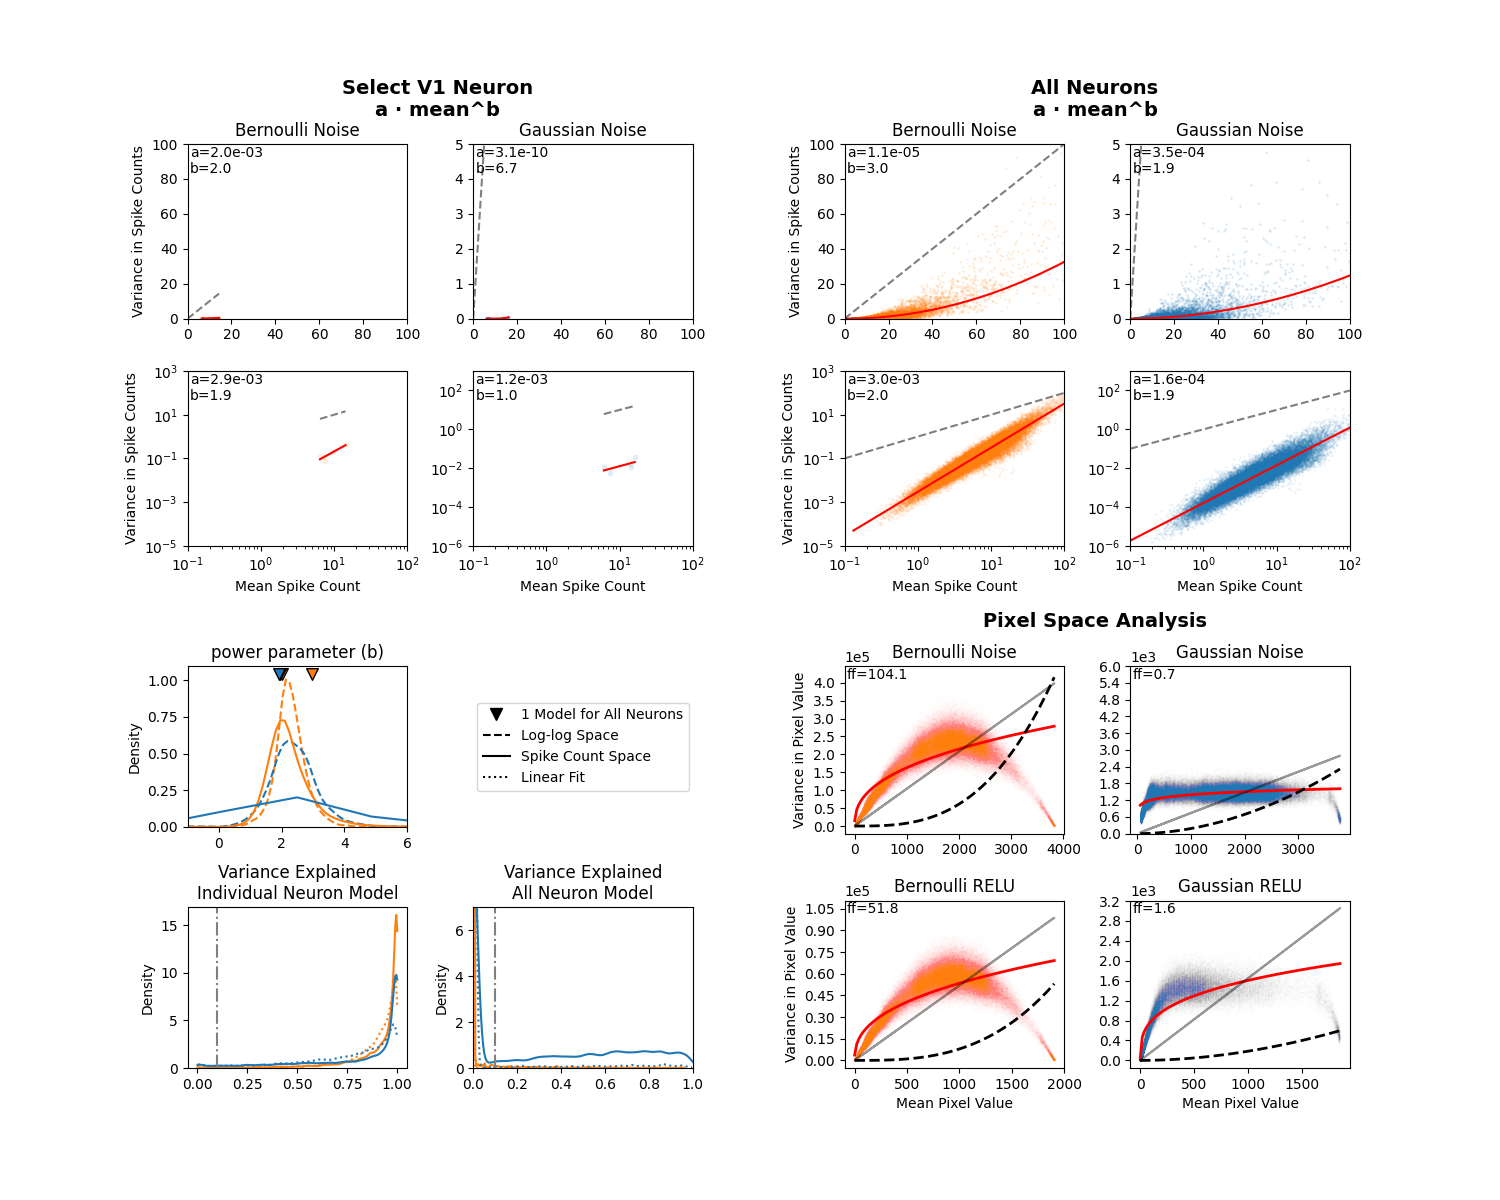
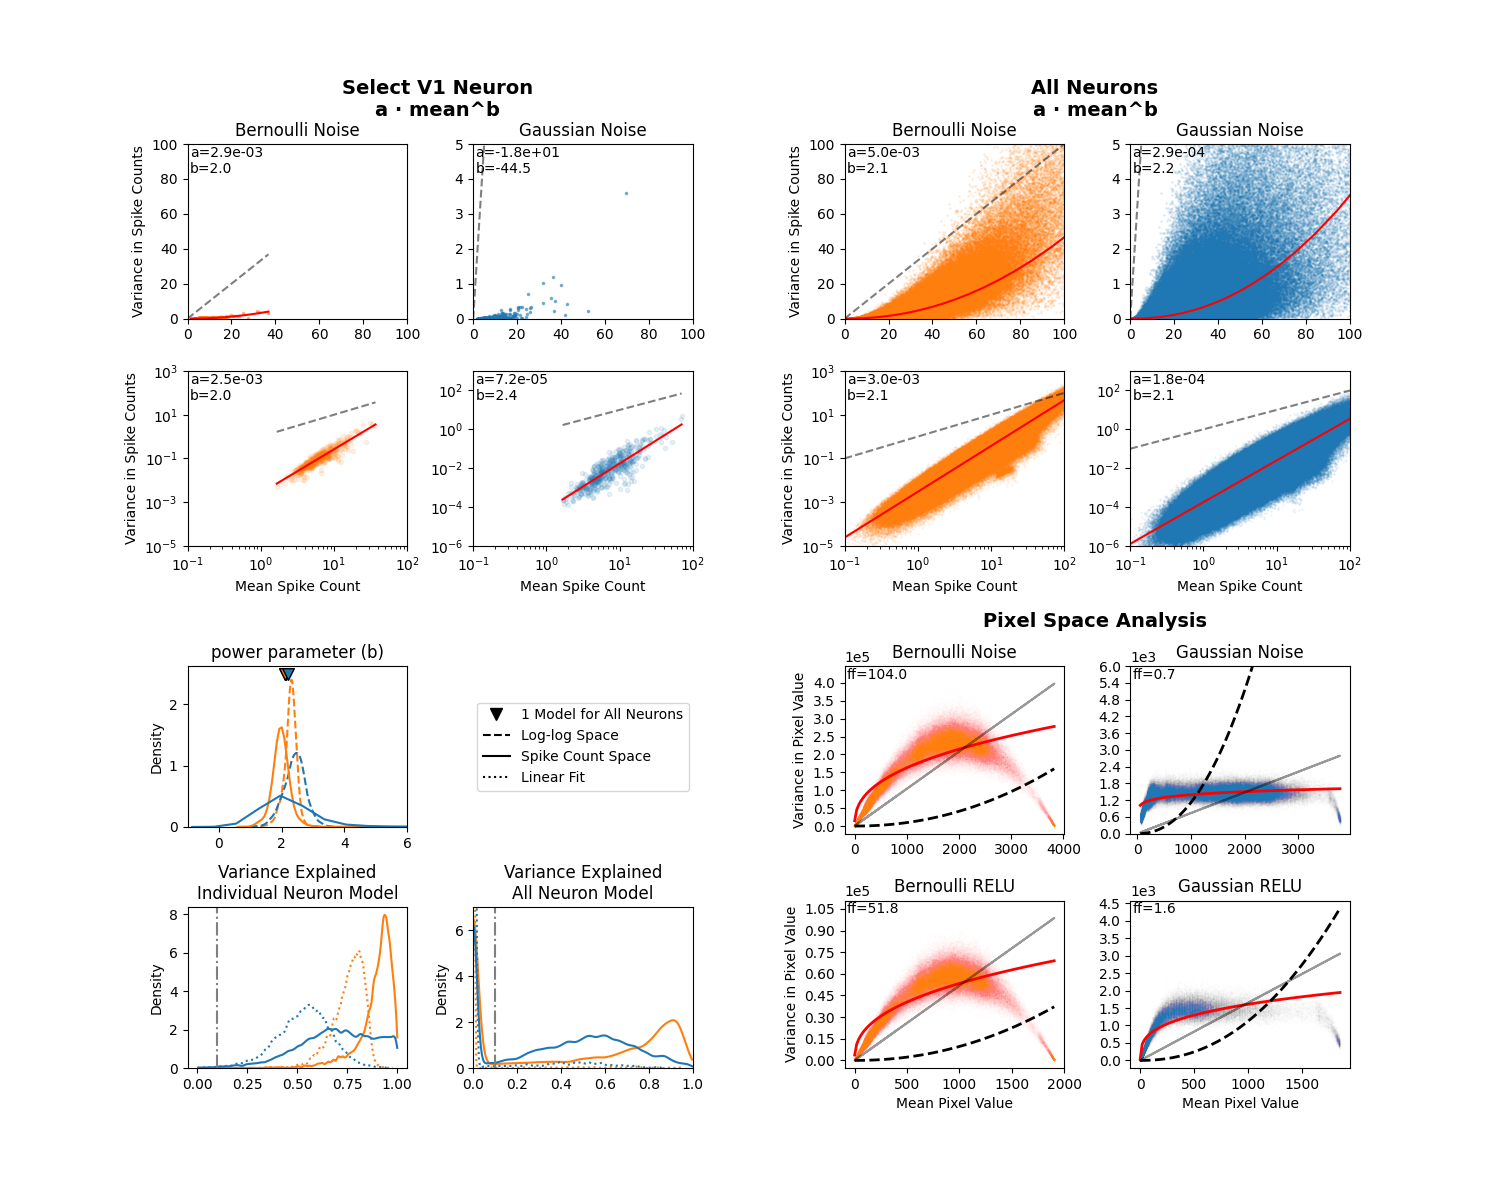
filtering region done

diff --git a/plot_figure1.py b/plot_figure1.py
@@ -12,6 +12,7 @@ Usage:
 """
 
 import numpy as np
+import pandas as pd
 import matplotlib.pyplot as plt
 import matplotlib.gridspec as gridspec
 from matplotlib.lines import Line2D
@@ -21,7 +22,7 @@ from sklearn.linear_model import LinearRegression
 from scipy.optimize import curve_fit
 from scipy.stats import linregress
 
-from figure1_utils import preprocess_neuron_data, figure1_collection
+from figure1_utils import preprocess_neuron_data, figure1_collection, filter_v1_region
 
 
 # ==============================================================================
@@ -242,7 +243,7 @@ def fit_pixel_data(mean_data, var_data, a_glob=None, b_glob=None):
 def plot_figure1(figure_name, stochbin_meanv1, stochbin_varv1, sigma10_meanv1, sigma10_varv1,
                  gnoise_mean, gnoise_var, bnoise_mean, bnoise_var,
                  fg_mean_relu, fg_var_relu, fb_mean_relu, fb_var_relu,
-                 ve_thresh=0.1, neuron_idx=2, savefig=False):
+                 stochbin_label=None, ve_thresh=0.1, neuron_idx=2, savefig=False, filter_v1=False):
     """
     Create Figure 1 with all subpanels.
     
@@ -272,13 +273,32 @@ def plot_figure1(figure_name, stochbin_meanv1, stochbin_varv1, sigma10_meanv1, s
         Mean pixel values for Bernoulli noise with ReLU (pixel-level)
     fb_var_relu : ndarray
         Variance in pixel values for Bernoulli noise with ReLU (pixel-level)
+    stochbin_label : ndarray, optional
+        Label array for stochastic binary noise (needed if filter_v1=True)
     ve_thresh : float, default=0.1
         Variance explained threshold
     neuron_idx : int, default=2
         Index of neuron to highlight (Neuron 3 = index 2)
     savefig : bool, default=False
         Whether to save the figure as 'figure1.png'
+    filter_v1 : bool, default=True
+        Whether to filter data to V1 region only
     """
+    # Apply V1 filtering if requested
+    if filter_v1:
+        if stochbin_label is None:
+            raise ValueError("stochbin_label must be provided when filter_v1=True")
+        
+        print("  Filtering V1 region...")
+        v1_filtered = filter_v1_region(
+            stochbin_meanv1, stochbin_varv1, stochbin_label,
+            sigma10_meanv1, sigma10_varv1
+        )
+        stochbin_meanv1 = v1_filtered['v1mean_stochbin']
+        stochbin_varv1 = v1_filtered['v1var_stochbin']
+        sigma10_meanv1 = v1_filtered['v1mean_sigma10']
+        sigma10_varv1 = v1_filtered['v1var_sigma10']
+    
     # Step 1: Compute all neuron-level fits
     print("  Computing neuron-level fits...")
 

diff --git a/test_josh_figure1.py b/test_josh_figure1.py
@@ -4,7 +4,6 @@ from figure1_utils import figure1_collection
 from plot_figure1 import plot_figure1
 
 # Path where predictions are stored
-#path = "predictions/test_predictions(1-8-26)"
 path = "predictions/final predictions"
 
 # Initialize empty lists to collect arrays
@@ -62,7 +61,7 @@ sigma10_sum = np.sum(gaus_predictions, axis=1)   # Shape: (num_images, num_neuro
 pixel_data = figure1_collection(
     stochbin_sum=stochbin_sum,
     sigma10_sum=sigma10_sum,
-    num_imgs=5,
+    num_imgs=500,
     num_noise_seeds=100,
     num_frames=15,
     img_height=144,
@@ -94,4 +93,3 @@ print("=" * 80)
 print("WORKFLOW COMPLETE!")
 print("=" * 80)
 
- 
